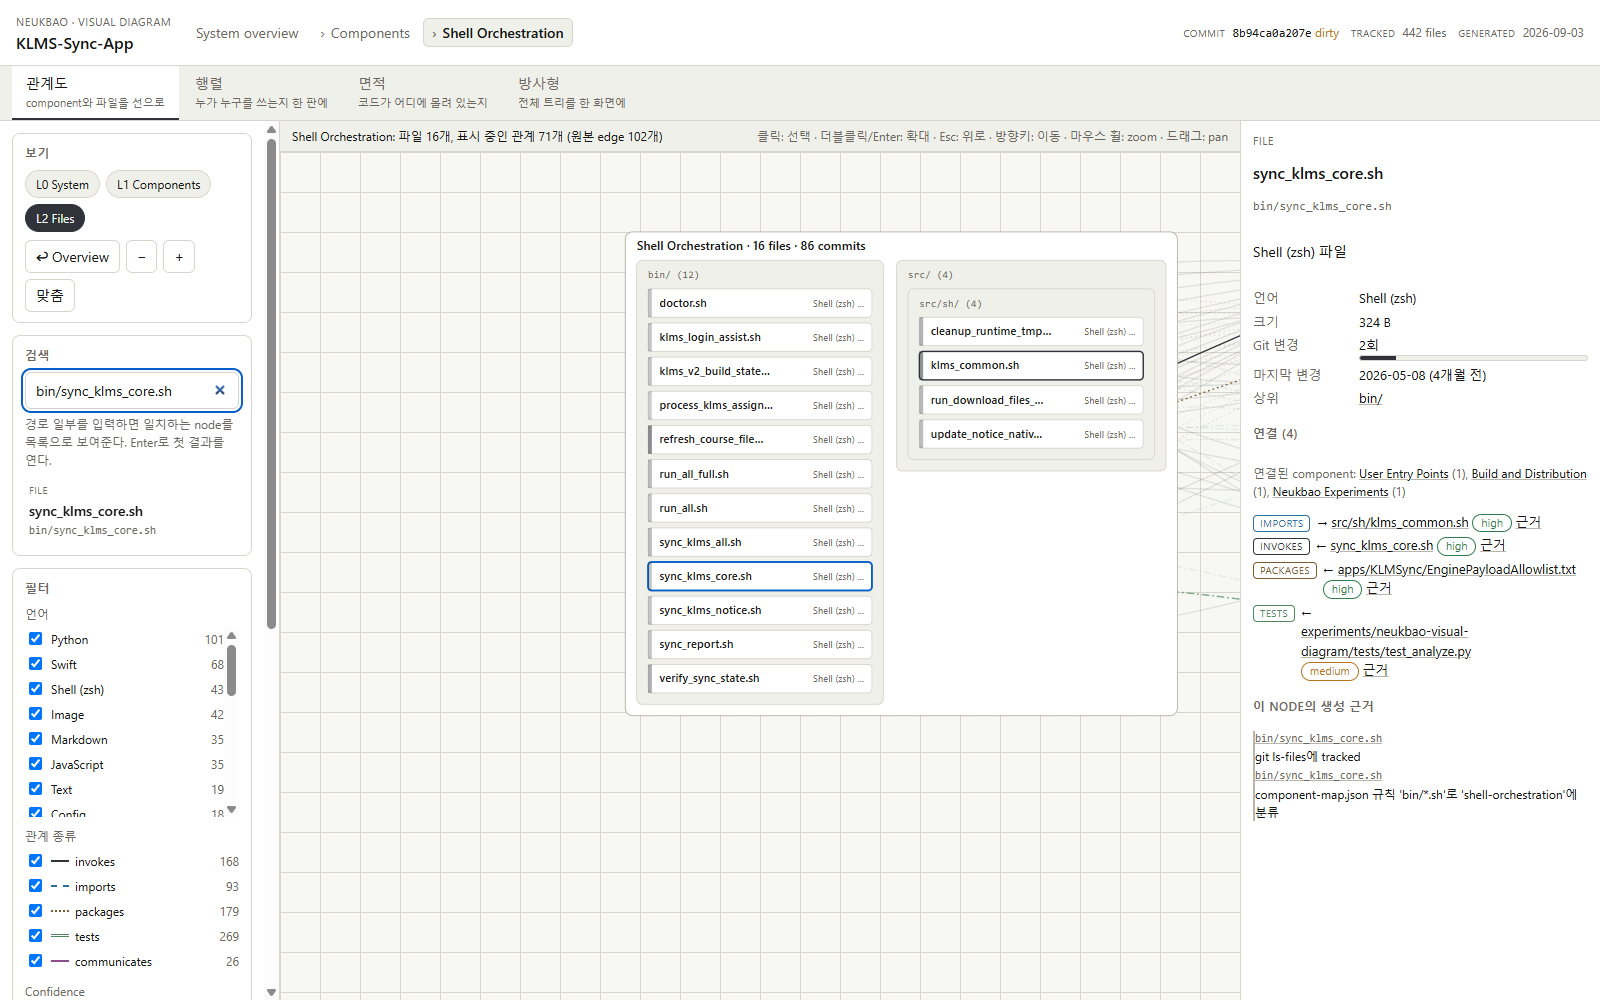
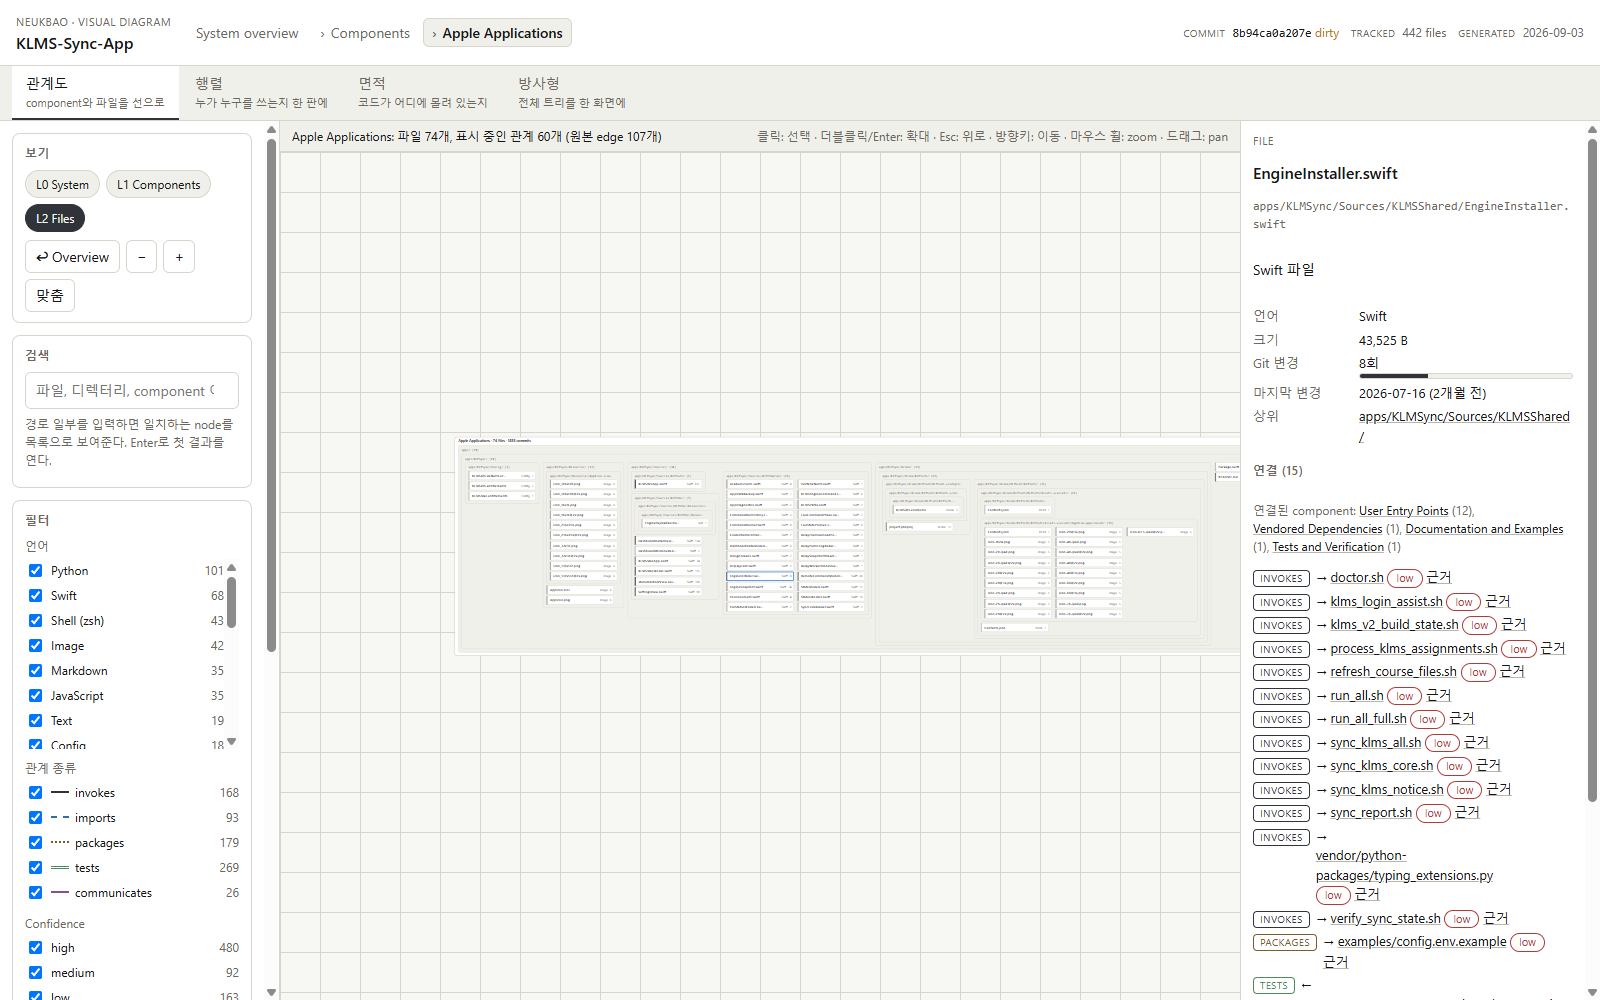
fix: leave the matrix view through a render, and correct sunburst counts
Following a code review of 072151b.

navigateTo wrote state.viewMode directly when a path link was clicked from the
matrix, on the assumption that setLevel or openComponent would render right
after. On one path they do not: when the target file already belongs to the
component that is focused at level 2, the guard skips openComponent, so nothing
rendered. The mode said "graph" while the canvas still drew the matrix, the
level chips stayed hidden, and the 관계도 tab became inert because setViewMode
early-returns when the mode already matches. Leaving the matrix now goes through
openComponent unconditionally, which is the only thing that switches the mode.

The sunburst figures in README were measured before graph.json was regenerated
in that same commit. The whole-repository view draws 303 segments and holds 253
beyond the fourth ring, and the commit metric hides 443, not 302 / 243 / 433.

The forced-colors block listed the focus rule before the related rule, the
reverse of the normal cascade, so a node that was both would draw LinkText
instead of Highlight.

Nothing outside experiments/neukbao-visual-diagram is modified.

diff --git a/experiments/neukbao-visual-diagram/public/app.js b/experiments/neukbao-visual-diagram/public/app.js
@@ -802,14 +802,18 @@
       select({ kind: "node", id });
       return;
     }
+    let leavingMatrix = false;
     if (state.viewMode === "matrix") {
       if (n.kind === "component") { select({ kind: "node", id }); return; }
-      state.viewMode = "graph"; // setLevel/openComponent below render once in graph mode
+      // A file or directory is not drawn in the matrix, so we have to leave it.
+      // setLevel / openComponent below switch the mode and render; never write
+      // state.viewMode here, or a path that skips them would strand the canvas.
+      leavingMatrix = true;
       if (state.selected && state.selected.kind === "cell") state.selected = null;
     }
     if (n.kind === "system") { setLevel(0); select({ kind: "node", id }); return; }
     if (n.kind === "component") {
-      if (state.level === 2 && state.focusComponent !== id) openComponent(id);
+      if (leavingMatrix || (state.level === 2 && state.focusComponent !== id)) openComponent(id);
       else if (state.level < 1) { setLevel(1); }
       select({ kind: "node", id });
       if (state.level === 2 && state.focusComponent === id) return;
@@ -817,7 +821,7 @@
       return;
     }
     const comp = componentOf(id);
-    if (state.focusComponent !== comp || state.level !== 2) openComponent(comp);
+    if (leavingMatrix || state.focusComponent !== comp || state.level !== 2) openComponent(comp);
     select({ kind: "node", id });
     centerOn(id);
   }

diff --git a/experiments/neukbao-visual-diagram/public/styles.css b/experiments/neukbao-visual-diagram/public/styles.css
@@ -340,8 +340,8 @@ button { font: inherit; color: inherit; }
   .viewtab[aria-selected="true"] { border-bottom-color: Highlight; }
   .mx-cell, .tm-tile, .sb-arc { fill: Canvas; stroke: CanvasText; }
   .node .mx-cell--selected, .node .tm-tile--selected, .node .sb-arc--selected,
-  .node .shape--focus, .node--selected .mx-headbox { stroke: Highlight; }
   .node .shape--related { stroke: LinkText; }
+  .node .shape--focus, .node--selected .mx-headbox { stroke: Highlight; }
   .node__box { fill: Canvas; stroke: CanvasText; }
   .edge { stroke: CanvasText; }
   .node--selected .node__box, .edge--selected { stroke: Highlight; }

diff --git a/experiments/neukbao-visual-diagram/README.md b/experiments/neukbao-visual-diagram/README.md
@@ -115,7 +115,7 @@ tracked 파일이라도 `config.env`, `.env`, `*.cookies`, `session*.json`, `kai
 ### 방사형 (sunburst)
 
 - 가운데가 현재 기준, 바깥으로 갈수록 하위 계층. 각도 = 파일 수(또는 커밋 수) 비율, 최대 4겹.
-- 한 화면에 전부 담기지 않는다. 4겹 밖이거나 각이 0.012 rad보다 얇은 조각은 그리지 않고, 상태 줄에 몇 개를 왜 안 그렸는지 밝힌다. 저장소 전체 기준으로는 302개를 그리고 243개가 4겹 밖이라 조각을 열어야 보인다.
+- 한 화면에 전부 담기지 않는다. 4겹 밖이거나 각이 0.012 rad보다 얇은 조각은 그리지 않고, 상태 줄에 몇 개를 왜 안 그렸는지 밝힌다. 저장소 전체 기준으로는 303개를 그리고 253개가 4겹 밖이라 조각을 열어야 보인다.
 - 더블클릭/Enter로 그 조각을 가운데로 내리고 Esc로 올라온다. 면적 뷰와 위치(breadcrumb)를 공유한다.
 - node 클릭: 이름, 역할, 경로, 언어, 크기, 하위, 연결(타입·방향·confidence·근거 버튼), Git 변경 횟수(로그 스케일 막대), 마지막 변경, 생성 근거.
 - edge 클릭: 관계 종류, source/target, confidence(합쳐진 경우 분포), 추출 파일과 이유, 원본 파일 관계 목록.
@@ -143,7 +143,7 @@ tracked 파일이라도 `config.env`, `.env`, `*.cookies`, `session*.json`, `kai
 | 흐름 (관계도) | overview → L1 → component 클릭 → L2 → 파일 클릭 → 근거 버튼 → edge 상세 → 필터 on/off → 키보드 이동/Esc → Overview 복귀 확인 |
 | 흐름 (행렬) | 탭 전환 → 관계가 있는 칸 52개 / 182칸 → 칸 클릭 → 관계 목록과 대표 근거 → `근거`로 edge 상세 확인 |
 | 흐름 (면적) | 탭 전환 → component 14개 → 크기 기준 파일↔커밋 전환 → 더블클릭으로 하위 진입 → Esc 복귀 확인 |
-| 흐름 (방사형) | 탭 전환 → 전체 기준 302개 조각과 "안 그린 것 243개 (4겹 밖 243개)" 안내 → 키보드 이동/Enter로 하위 진입 → breadcrumb 갱신 확인 |
+| 흐름 (방사형) | 탭 전환 → 전체 기준 303개 조각과 "안 그린 것 253개 (4겹 밖 253개)" 안내 → 키보드 이동/Enter로 하위 진입 → breadcrumb 갱신 확인 |
 | 800px 폭 | 가로 스크롤 없음 |
 | dark + reduced motion | 렌더 확인 (`docs/screenshot-dark-reduced-motion.png`) |
 
@@ -162,6 +162,6 @@ tracked 파일이라도 `config.env`, `.env`, `*.cookies`, `session*.json`, `kai
 - L2에서 파일이 70개 이상인 component(Tests and Verification 95개, Apple Applications 74개)는 박스가 커져 zoom이 필요하다.
 - 행렬은 component 단위만 다룬다. 파일 단위 행렬은 442×442이라 만들지 않았다.
 - 면적/방사형의 크기 기준은 파일 수와 커밋 수 둘뿐이다. 코드 줄 수는 tracked 파일을 전부 읽어야 해서 넣지 않았다.
-- 방사형은 4겹까지만 그린다. 저장소 전체를 기준으로 하면 302개를 그리고 243개가 4겹 밖이라 화면에 없다. 크기 기준을 커밋 수로 바꾸면 얇은 조각까지 더해져 433개가 빠진다. 상태 줄이 그 수와 이유를 밝히며, 전부 보려면 조각을 눌러 내려가야 한다.
+- 방사형은 4겹까지만 그린다. 저장소 전체를 기준으로 하면 303개를 그리고 253개가 4겹 밖이라 화면에 없다. 크기 기준을 커밋 수로 바꾸면 얇은 조각까지 더해져 443개가 빠진다. 상태 줄이 그 수와 이유를 밝히며, 전부 보려면 조각을 눌러 내려가야 한다.
 - Swift 파일 사이의 타입 참조(같은 target 안)는 분석하지 않는다. target 단위만 다룬다.
 - `docs/` 안 문서가 다른 파일을 언급하는 관계는 만들지 않았다 (문서를 근거로 쓰지 않는다는 원칙).
